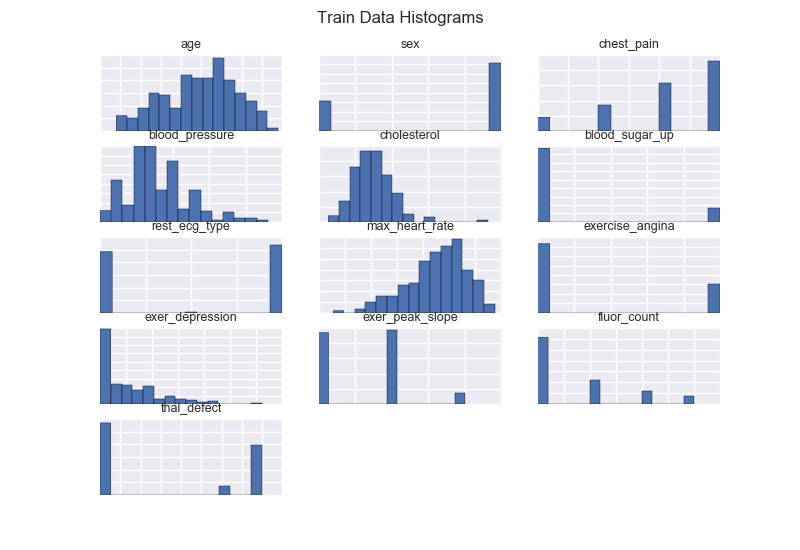
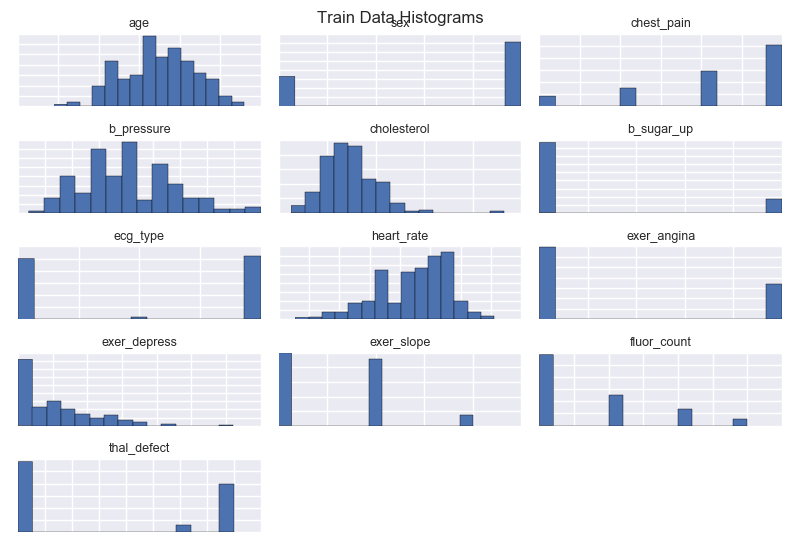
clean up plots

diff --git a/coronary_predict.py b/coronary_predict.py
@@ -34,9 +34,9 @@ def read_data(name):
     print("read %s" % f)
 #    col_names = ['age', 'sex', 'cp', 'trestbps', 'chol', 'fbs', 'restecg', 'thalach', \
 #        'exang', 'oldpeak', 'slope', 'ca', 'thal', 'risk']
-    col_names = ['age', 'sex', 'chest_pain', 'blood_pressure', 'cholesterol', \
-        'blood_sugar_up', 'rest_ecg_type', 'max_heart_rate', 'exercise_angina', \
-        'exer_depression', 'exer_peak_slope', 'fluor_count', 'thal_defect', 'risk']
+    col_names = ['age', 'sex', 'chest_pain', 'b_pressure', 'cholesterol', \
+        'b_sugar_up', 'ecg_type', 'heart_rate', 'exer_angina', \
+        'exer_depress', 'exer_slope', 'fluor_count', 'thal_defect', 'risk']
     df = pd.read_csv(f, names = col_names)
     # check for ? missing values - six in mostly different columns
     # no other non-numeric characters
@@ -101,7 +101,7 @@ def test_incoming(test_X, train_X):
 def plot_scatter_matrix(df, plotdir):
     "Plot scatter matrix."
     plt.clf()
-    pd_scatter_matrix(df, figsize=(10,10))
+    pd_scatter_matrix(df, figsize=(14,14))
     plt.suptitle("Scatter Matrix", fontsize=14)
     plt.savefig(plotdir + 'scatter_matrix.png')
 
@@ -119,6 +119,7 @@ def plot_hists(df, plotdir, label='x', ncols=3):
         plt.hist(df[var].values, bins=15)
         plt.title(var, fontsize=9)
         plt.tick_params(labelbottom='off', labelleft='off')
+    plt.tight_layout()
     plt.savefig(plotdir + 'hist_coronary_' + label.lower() + '.png')
 
 def confusion_report(test_y, new_y):
@@ -179,7 +180,7 @@ def main():
 #    print("len train_X %d, test_X %d" % (len(train_X), len(test_X)))
     
     plotdir = make_plotdir()
-#    plot_scatter_matrix(train_X, plotdir)  # takes a while, not that useful 
+    plot_scatter_matrix(train_X, plotdir)  # takes a while, not that useful 
     plot_hists(train_X, plotdir, label='Train')
     plot_hists(test_X, plotdir, label='Test')
     
